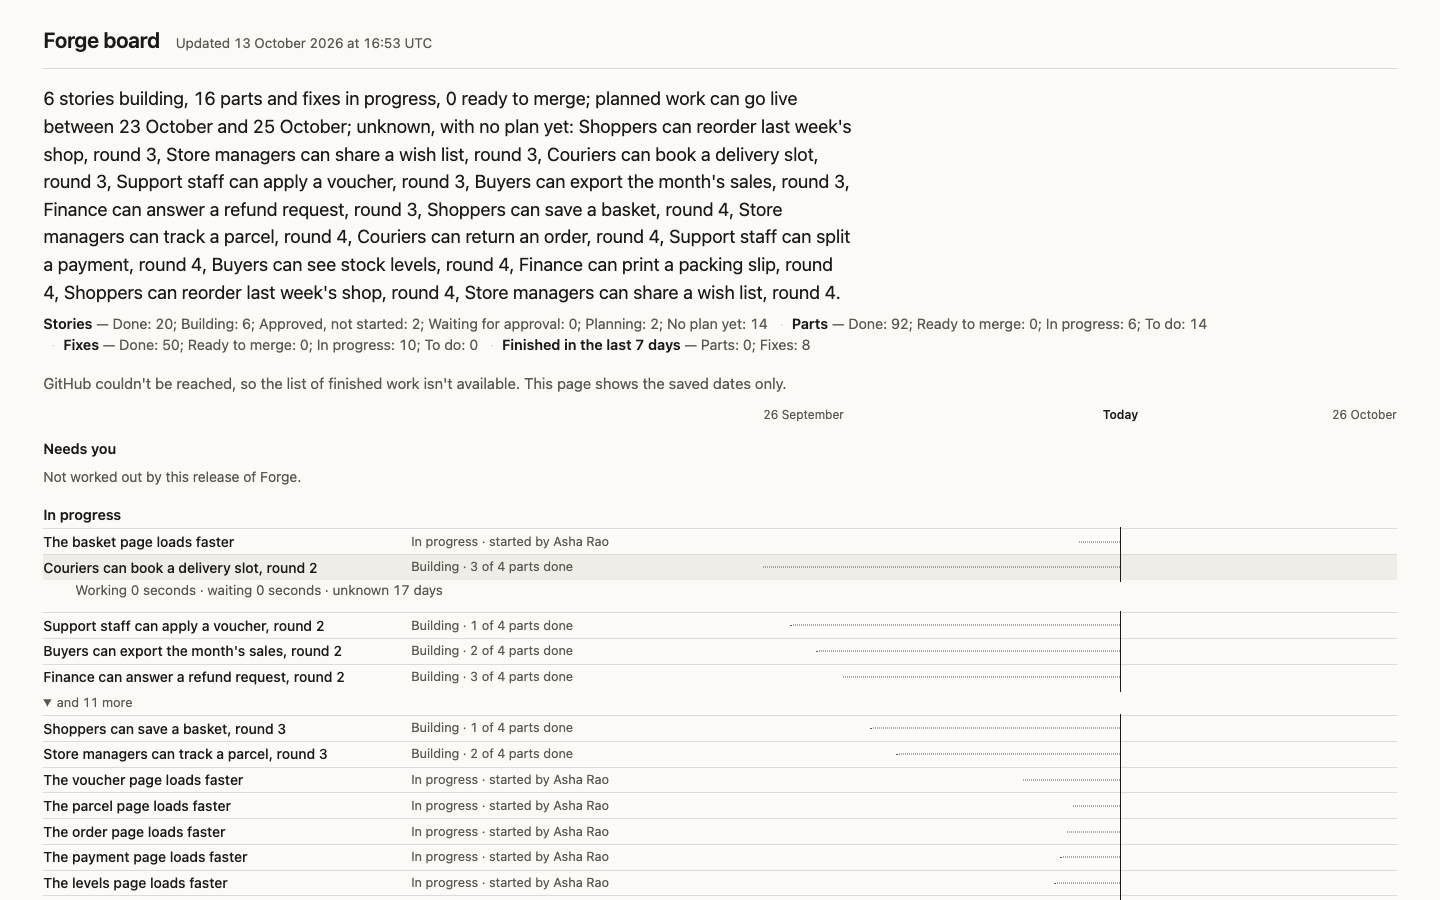
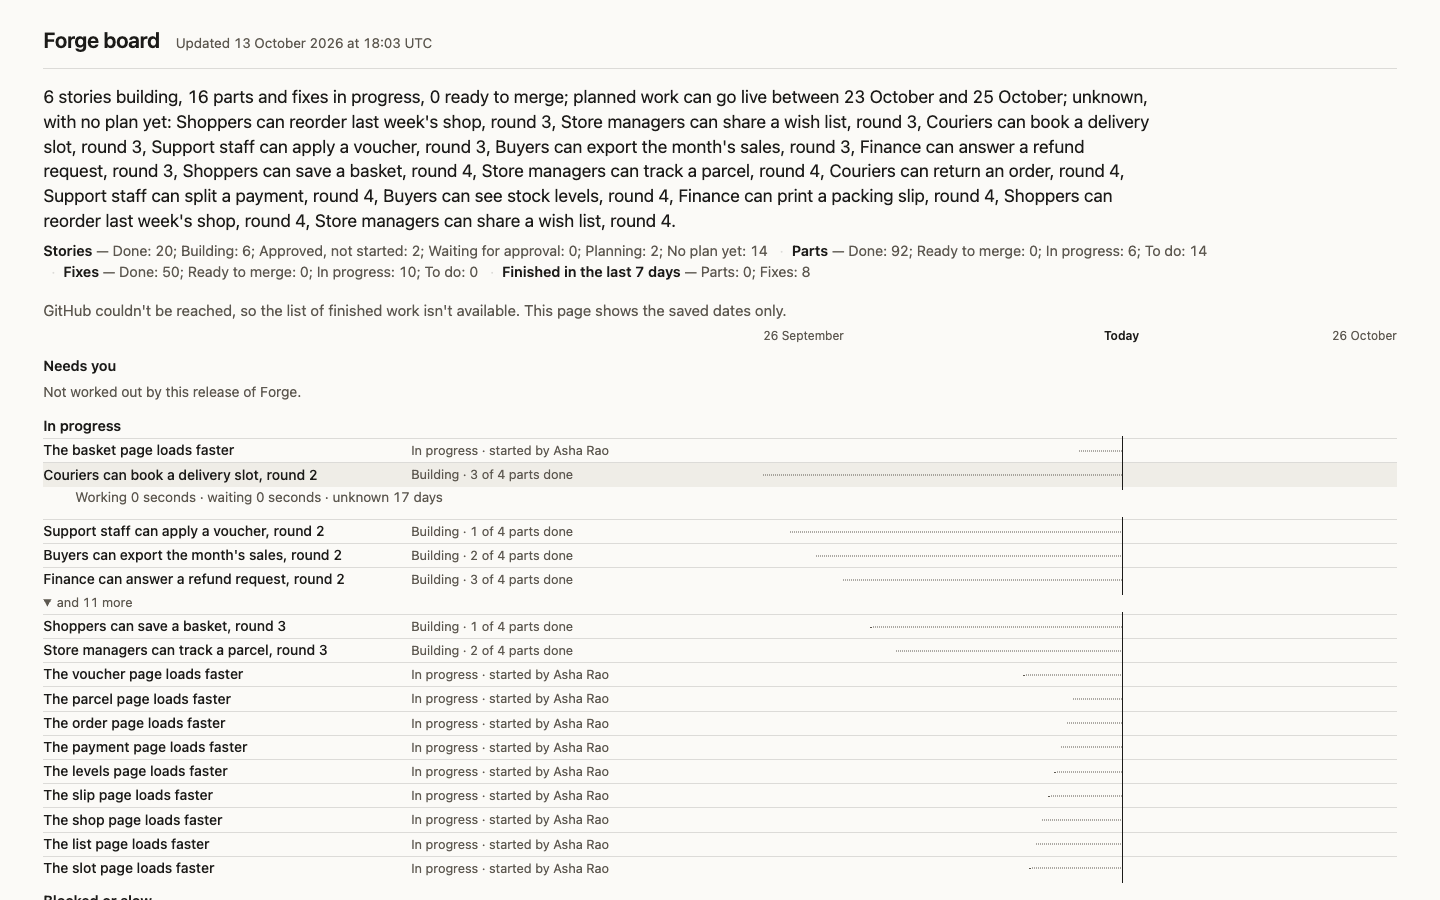
The board's first screen still fits a laptop window once Needs you and Blocked or slow fill in
The review found three problems. The first screen only fitted 900px while Needs you and Blocked
or slow were empty, and five plus two rows would push it past. On a phone the time axis labels
ran together. The trends were only checked as page text, never seen in a browser.

The first-screen rows, headings and spacing are tighter, and the team sentence uses more of the
width, so the client-sized page with five Needs you rows, "and 2 more" and two Blocked or slow
rows now ends at 873px. Below 720px the axis puts the start and end dates on a second line under
"Today". New and existing client repos get the tighter first screen on their next board.

Proof list:
- tests/test_board_runway.py test_7_first_screen (new client and earlier adoption): the browser
  check now fills Needs you to five rows with "and 2 more" and Blocked or slow to two rows (copied
  from In progress rows while this release leaves those lists empty) and requires the first
  screen to end within 900px; at 1440 and 390 no two axis labels overlap; the trends section
  shows its six weeks, the team row, a person row and the around-Forge pull request.
- tests/test_board_trends.py, tests/test_board.py, tests/test_rules.py pass.
- Screenshots: docs/board-screens/runway/ refreshed, plus runway-forge-1440-light-full-lists.png
  and runway-client-1440-light-full-lists.png with the filled lists.

Functional check: In headless Chrome with the lists filled, the first screen ends at 696px on
[…]

diff --git a/src/forge/board.html b/src/forge/board.html
@@ -32,7 +32,7 @@
   header p { font-size: .85rem; }
   h2 { font-size: 1.05rem; font-weight: 600; margin: 2.25rem 0 .5rem; }
   h3 { font-size: .9rem; font-weight: 600; margin: 1.5rem 0 .25rem; }
-  .sentence { font-size: 1.15rem; margin-top: 1rem; max-width: 70ch; }
+  .sentence { font-size: 1.1rem; line-height: 1.4; margin-top: 1rem; max-width: 100ch; }
   .totals { margin-top: .4rem; font-size: .9rem; }
   .note { margin-top: 1rem; }
   .key { font-size: .85rem; margin-bottom: .5rem; white-space: nowrap; overflow-x: auto; }
@@ -81,16 +81,16 @@
   /* The Runway: one time axis for the first screen; --today places the today line. */
   .totals span + span::before { content: "·"; margin: 0 .5rem; color: var(--rule); }
   .totals span { white-space: nowrap; } .totals b { font-weight: 600; color: var(--ink); }
-  .runway-axis { margin-top: .75rem; }
-  .lanes h2 { font-size: .9rem; margin: .9rem 0 .15rem; }
+  .runway-axis { margin-top: .4rem; }
+  .lanes h2 { font-size: .9rem; margin: .6rem 0 .1rem; }
   .axis, .lane > summary, .lane.static { display: grid; gap: 0 1rem; align-items: center;
     grid-template-columns: minmax(0, 22rem) minmax(0, 21rem) minmax(8rem, 1fr); }
   .axis { font-size: .75rem; color: var(--muted); height: 1.1rem; }
-  .axis .track > span { top: 0; transform: none; white-space: nowrap; }
+  .axis .track > span { top: 0; transform: none; white-space: nowrap; line-height: 1rem; }
   .axis .track > .today { transform: translateX(-50%); color: var(--ink); font-weight: 600; }
   .axis .track > .end { transform: translateX(-100%); }
   .lane { border-top: 1px solid var(--rule); }
-  .lane > summary, .lane.static { list-style: none; padding: .15rem 0; font-size: .875rem; line-height: 1.4; }
+  .lane > summary, .lane.static { list-style: none; padding: .1rem 0; font-size: .875rem; line-height: 1.35; }
   .lane > summary::-webkit-details-marker { display: none; }
   .lane[open] > summary { background: var(--surface-2); }
   .lane .name { overflow: hidden; text-overflow: ellipsis; white-space: nowrap; font-weight: 500; }
@@ -111,7 +111,7 @@
   .band { height: .9rem; background: var(--rule); border-left: 2px solid var(--ink); border-right: 2px solid var(--ink); }
   .tick { height: .9rem; border-left: 2px solid var(--ink); }
   .lanes .empty { font-size: .875rem; padding: .2rem 0; }
-  .rest > summary { font-size: .8rem; color: var(--muted); padding: .2rem 0; }
+  .rest > summary { font-size: .8rem; color: var(--muted); padding: .1rem 0; }
   .round { font-size: .8rem; }
   .pace { font-size: .8rem; color: var(--muted); padding-top: .2rem; }
   .trends-grid { display: grid; grid-template-columns: minmax(0, 3fr) minmax(16rem, 1fr); gap: 1rem 2.5rem; }
@@ -133,7 +133,8 @@
   .around li span:last-child { grid-column: 2; grid-row: 1; }
   @media (max-width: 720px) {
     .axis, .lane > summary, .lane.static, .trends-grid { grid-template-columns: minmax(0, 1fr); }
-    .axis { height: 1.1rem; } .axis > span:not(.track) { display: none; }
+    .axis { height: 2.2rem; } .axis > span:not(.track) { display: none; }
+    .axis .track { height: 2.2rem; } .axis .track > .start, .axis .track > .end { top: 1.1rem; }
     .lane .name, .lane .what, .totals span { white-space: normal; }
     .row > details > summary, .parts summary { grid-template-columns: 1rem minmax(0, 1fr); }
     .row > details > summary > span, .parts summary > span { grid-column: 2; }

diff --git a/tests/test_board_runway.py b/tests/test_board_runway.py
@@ -12,6 +12,7 @@ import pytest
 import conftest
 from conftest import REAL_UV
 from test_board_counts import ONE_PART, board, clock, configure, github, read_story
+from test_board_trends import ANA, BEN, pr
 from test_close import blocked, env, finding  # noqa: F401
 from test_close_keeps_reviews_for_unchanged_branch_diffs import client
 from test_story import READER
@@ -242,7 +243,9 @@ def test_7_first_screen(env, monkeypatch, previous):
     env.commit(tree, "speed.txt", "fast\n", "Speed up the page")
     env.reviews(blocked(finding("P1", "The page still loads every row")))
     env.repo.forge("close", "speed-0", cwd=tree)
-    github(env, [])
+    # Merged pull requests for the trends: one through Forge two weeks ago, one around it today.
+    github(env, [pr(1, "task/OLD-T1", BEN, now - timedelta(days=14)),
+                 pr(2, "quick-patch", ANA, now - timedelta(hours=1), "Patch the login page")])
     clock(monkeypatch, now + timedelta(minutes=2))
 
     data = board(env.repo)
@@ -293,12 +296,33 @@ def test_7_first_screen(env, monkeypatch, previous):
 
 
 def _first_screen_browser(page):
-    """In real Chrome: at 1440 by 900 the first screen ends above the fold; nothing scrolls
-    sideways at 1440 or 390; "and N more" and a row's detail open in place and close again;
-    Tab reaches every row with a visible focus ring."""
+    """In real Chrome: at 1440 by 900 the first screen, with five Needs you rows and "and 2 more"
+    and two Blocked or slow rows, ends above the fold; the time axis labels never overlap; nothing
+    scrolls sideways at 1440 or 390; "and N more" and a row's detail open in place and close again;
+    Tab reaches every row with a visible focus ring; the trends weeks, team row and around-Forge
+    list show. Until this release works out Needs you and Blocked or slow, the check copies In
+    progress rows into those lists so the fit is measured at their full size."""
     script = """
 import sys
 from playwright.sync_api import sync_playwright
+FILL = '''() => {
+  const lanes = [...document.querySelectorAll('#in-progress > details.lane')];
+  const fill = (id, n, more) => {
+    const box = document.getElementById(id);
+    if (box.querySelector('details.lane')) return;
+    box.querySelector('.empty').remove();
+    const rows = Array.from({length: n}, (_, i) => lanes[i % lanes.length].cloneNode(true));
+    box.querySelector('h2').after(...rows);
+    if (more) {
+      const rest = document.createElement('details');
+      rest.className = 'rest';
+      rest.innerHTML = '<summary>and 2 more</summary>';
+      rows[n - 1].after(rest);
+    }
+  };
+  fill('needs-you', 5, true);
+  fill('blocked', 2, false);
+}'''
 with sync_playwright() as p:
     browser = p.chromium.launch(channel='chrome', headless=True, args=['--no-sandbox'])
     try:
@@ -306,6 +330,13 @@ with sync_playwright() as p:
             for scheme in ('light', 'dark'):
                 page = browser.new_page(viewport={'width': width, 'height': height}, color_scheme=scheme)
                 page.goto(sys.argv[1])
+                page.evaluate(FILL)
+                labels = page.evaluate("[...document.querySelectorAll('.axis .track > span')].map(s => {"
+                                       "const r = s.getBoundingClientRect(); return [r.left, r.right, r.top, r.bottom]; })")
+                for n, a in enumerate(labels):
+                    for b in labels[n + 1:]:
+                        apart = a[1] <= b[0] or b[1] <= a[0] or a[3] <= b[2] or b[3] <= a[2]
+                        assert apart, ('Axis labels overlap', width, a, b)
                 assert page.evaluate('document.documentElement.scrollWidth <= window.innerWidth'), width
                 if width == 1440:
                     bottom = page.evaluate("document.getElementById('first-screen').getBoundingClientRect().bottom")
@@ -335,6 +366,15 @@ with sync_playwright() as p:
                         assert focus, 'A focused row shows a ring'
                         reached += 1
                 assert reached == rows, (reached, rows)
+                trends = page.locator('#trends')
+                trends.scroll_into_view_if_needed()
+                weeks = page.locator('#trends table.trends thead th')
+                assert weeks.count() == 7 and all(weeks.nth(n).is_visible() for n in range(7)), 'Six weeks show'
+                assert page.locator('#trends tr.team').is_visible(), 'The team row shows'
+                assert page.locator('#trends tr.person').first.is_visible(), 'A person row shows'
+                around = page.locator('#trends .around li')
+                assert around.count() == 1 and around.first.is_visible(), 'The around-Forge list shows'
+                assert 'Patch the login page' in around.first.inner_text()
                 page.close()
     finally:
         browser.close()
